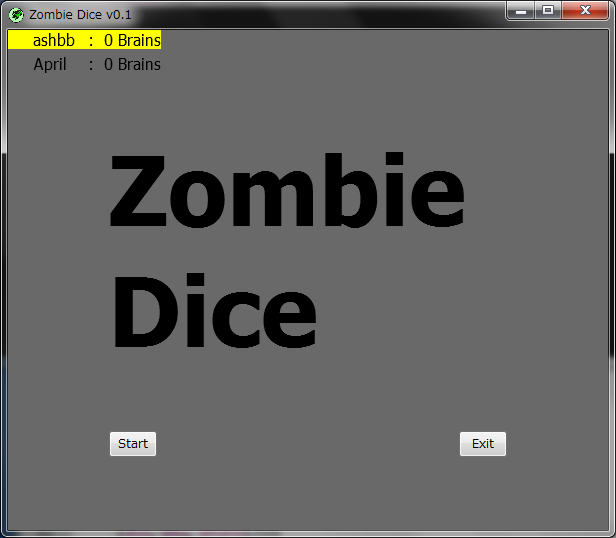
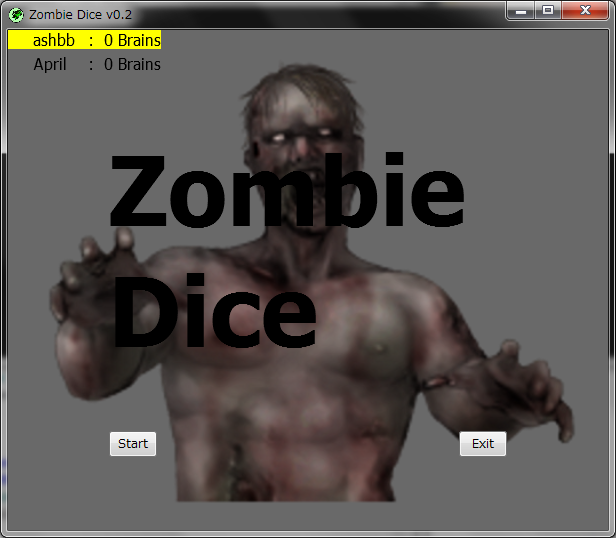
Added a background zombie man image which was created by [kabanedo](http://www7.ocn.ne.jp/~arata01/tili.html) and a license statement in README. Replaced snapshots and fixed a small bug.

diff --git a/zombie_dice_on_green_shoes.rb b/zombie_dice_on_green_shoes.rb
@@ -113,8 +113,9 @@ Shoes.app title: 'Zombie Dice v0.2' do
   end
 
   background dimgray
+  background './zonbiemann1.png'
   nostroke
-  @hand = rect TAKES[0]-10, TAKES[1]-10, 220, 250, curve: 10, fill: gray, hidden: true
+  @hand = rect TAKES[0]-10, TAKES[1]-10, 220, 250, curve: 10, fill: black.push(0.4), hidden: true
   @players = %w[ashbb April].map{|name| Player.new name, 0, [], [], []}
   @player = @players.first
   @score = para make_score @player.name
@@ -143,7 +144,7 @@ Shoes.app title: 'Zombie Dice v0.2' do
   GUNNED << para('You got', left: 150, top: 170)
   GUNNED << title('SHOT GUNNED!', left: 150, top: 220)
   GUNNED << button("next player's turn"){
-    @player.brains = []
+    @player.brains, @note_n = [], 0
     GUNNED.hide
     turn_next_player
   }

diff --git a/README.md b/README.md
@@ -37,3 +37,35 @@ There are 3 red dice, 4 yellow dice and 6 green dice.
 
 - Green Dice Sides: 'Brainnns','Brainnns','Brainnns','Run!','Run!','BANG'
 
+
+License
+=======
+
+Copyright (c) 2011 ashbb
+
+Except:
+
+- dice images (dice/*.png) were created by [Steve Jackson Games](http://www.sjgames.com/dice/zombiedice/)
+- background zombie man image (zonbiemann1.png) was created by [kabanedo](http://www7.ocn.ne.jp/~arata01/tili.html)
+
+Permission is hereby granted, free of charge, to any person
+obtaining a copy of this software and associated documentation
+files (the "Software"), to deal in the Software without restriction,
+including without limitation the rights to use, copy, modify, merge,
+publish, distribute, sublicense, and/or sell copies of the Software,
+and to permit persons to whom the Software is furnished to do so,
+subject to the following conditions:
+  
+The above copyright notice and this permission notice shall be 
+included in all copies or substantial portions of the Software.
+   
+THE SOFTWARE IS PROVIDED "AS IS", WITHOUT WARRANTY OF
+ANY KIND, EXPRESS OR IMPLIED, INCLUDING BUT NOT LIMITED
+TO THE WARRANTIES OF MERCHANTABILITY, FITNESS FOR A
+PARTICULAR PURPOSE AND NONINFRINGEMENT. IN NO EVENT
+SHALL THE AUTHORS BE LIABLE FOR ANY CLAIM, DAMAGES OR
+OTHER LIABILITY, WHETHER IN AN ACTION OF CONTRACT, TORT
+OR OTHERWISE, ARISING FROM, OUT OF OR IN CONNECTION
+WITH THE SOFTWARE OR THE USE OR OTHER DEALINGS IN THE
+SOFTWARE.
+
